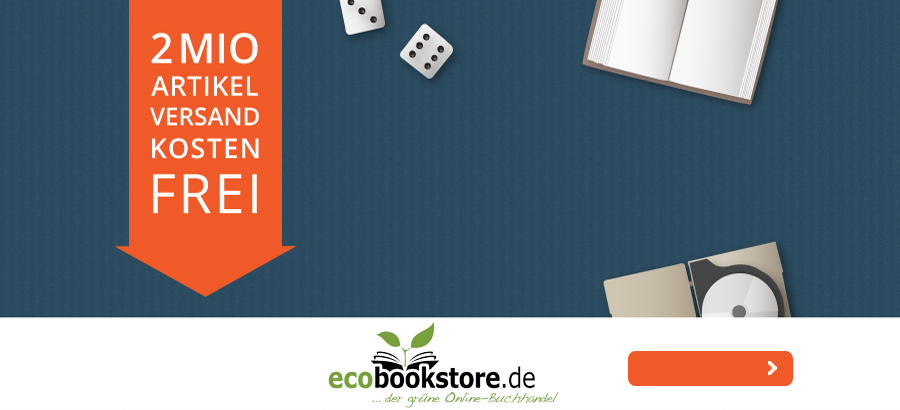
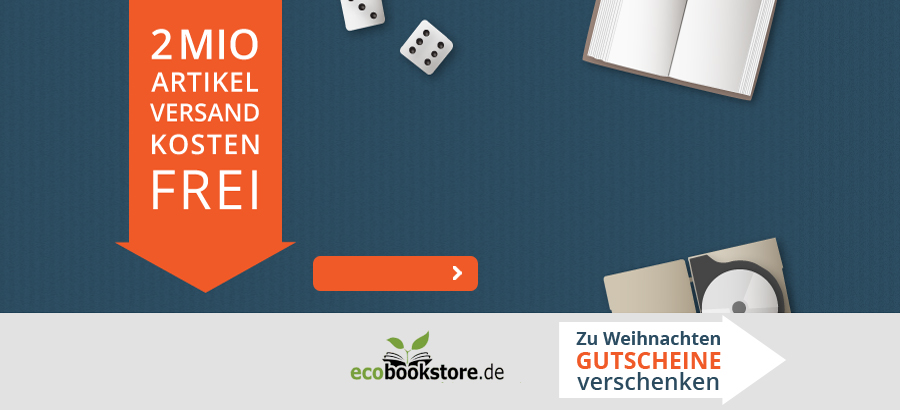
Update Ecobookstore billboard

diff --git a/app/assets/stylesheets/billboards/_billboard-ecobookstore.scss b/app/assets/stylesheets/billboards/_billboard-ecobookstore.scss
@@ -4,20 +4,22 @@
 
 
 // General stuff
-#billboard-ecobookstore > article h2 {
+#billboard-ecobookstore > article h3 {
   font-weight    : 600;
   text-transform : none;
   color          : #2b4b5e;
   text-align     : left;
 }
 
-#billboard-ecobookstore > article h3 {
-  text-indent : -1000em;
+#billboard-ecobookstore > article h3 span {
+  display  : block;
+  position : absolute;
 }
 
-#billboard-ecobookstore > article > a > p {
-  font-weight : 600;
-  color       : $white;
+#billboard-ecobookstore > article h2,
+#billboard-ecobookstore > article h3 span,
+#billboard-ecobookstore-link2 {
+  text-indent : -1000em;
 }
 
 #billboard-ecobookstore > article > p {
@@ -30,6 +32,11 @@
   color : #e57a61;
 }
 
+#billboard-ecobookstore-link1 {
+  font-weight : 600;
+  color       : $white;
+}
+
 
 // Responsive code: small version
 @include till-breakpoint($bp-tablet) {
@@ -38,43 +45,32 @@
   }
 
   #billboard-ecobookstore > article h2 {
-    display: none;
+    @include static-position($top: 0, $left: 54px, $height: 191px,
+      $width: 94px);
   }
 
-  #billboard-ecobookstore > article h3 {
-    @include static-position($top: 335px, $left: 25px, $height: 60px, $width: 175px);
-  }
-
-  #billboard-ecobookstore > article > a > p {
-    @include static-position($top: 276px, $left: 40px, $height: 25px, $width: 129px);
-    font-size: 16px;
-    padding: 4px 0 0 15px;
-  }
-
-  #billboard-ecobookstore > article > p:nth-of-type(1) {
-    display: none;
-  }
-
+  #billboard-ecobookstore > article h3,
+  #billboard-ecobookstore > article > p:nth-of-type(1),
   #billboard-ecobookstore > article > p:nth-of-type(2) {
     display: none;
   }
 
   #billboard-ecobookstore > article > p.alternative-text {
-    @include static-position($top: 185px, $left: 5px, $width: 200px);
+    @include static-position($top: 202px, $left: 5px, $width: 200px);
     font-size: 17px;
     text-align: center;
   }
 
-  #billboard-ecobookstore > article > ul > li#billboard-ecobookstore-link1 div:nth-of-type(1) {
-    @include static-position($top: 0, $left: 55px, $height: 190px, $width: 94px);
+  #billboard-ecobookstore-link1 {
+    @include static-position($top: 276px, $left: 40px, $height: 27px,
+      $width: 131px);
+    font-size: 16px;
+    padding: 4px 0 0 13px;
   }
 
-  #billboard-ecobookstore > article > ul > li#billboard-ecobookstore-link1 div:nth-of-type(2) {
-    display: none;
-  }
-
-  #billboard-ecobookstore > article > ul > li#billboard-ecobookstore-link1 div:nth-of-type(3) {
-    display: none;
+  #billboard-ecobookstore-link2 {
+    @include static-position($top: 334px, $left: 12px, $height: 66px,
+      $width: 195px);
   }
 }
 
@@ -86,43 +82,40 @@
   }
 
   #billboard-ecobookstore > article h2 {
-    @include static-position($top: 340px, $left: 12px, $width: 130px);
-    font-size: 16px;
+    @include static-position($top: 0, $left: 11px, $height: 258px,
+      $width: 121px);
   }
 
   #billboard-ecobookstore > article h3 {
-    @include static-position($top: 340px, $left: 95px, $height: 60px, $width: 170px);
+    text-indent: -1000em;
   }
 
-  #billboard-ecobookstore > article > a > p {
-    @include static-position($top: 354px, $left: 298px, $height: 27px, $width: 127px);
-    font-size: 16px;
-    padding: 4px 0 0 15px;
+  #billboard-ecobookstore > article h3 span {
+    @include static-position($top: 326px, $left: 31px, $height: 65px,
+      $width: 172px);
   }
+
 
   #billboard-ecobookstore > article > p:nth-of-type(1) {
-    @include static-position($top: 115px, $left: 155px, $width: 300px);
+    @include static-position($top: 132px, $left: 155px, $width: 300px);
     font-size: 17px;
   }
 
-  #billboard-ecobookstore > article > p:nth-of-type(2) {
-    display: none;
-  }
-
+  #billboard-ecobookstore > article > p:nth-of-type(2),
   #billboard-ecobookstore > article > p.alternative-text {
     display: none;
   }
 
-  #billboard-ecobookstore > article > ul > li#billboard-ecobookstore-link1 div:nth-of-type(1) {
-    @include static-position($top: 0, $left: 11px, $height: 258px, $width: 120px);
+  #billboard-ecobookstore-link1 {
+    @include static-position($top: 258px, $left: 116px, $height: 27px,
+      $width: 131px);
+    font-size: 16px;
+    padding: 4px 0 0 13px;
   }
 
-  #billboard-ecobookstore > article > ul > li#billboard-ecobookstore-link1 div:nth-of-type(2) {
-    @include static-position($top: 241px, $left: 275px, $height: 81px, $width: 160px);
-  }
-
-  #billboard-ecobookstore > article > ul > li#billboard-ecobookstore-link1 div:nth-of-type(3) {
-    @include static-position($top: 0px, $left: 155px, $height: 105px, $width: 280px);
+  #billboard-ecobookstore-link2 {
+    @include static-position($top: 323px, $left: 221px, $height: 71px,
+      $width: 214px);
   }
 }
 
@@ -134,27 +127,26 @@
   }
 
   #billboard-ecobookstore > article h2 {
-    @include static-position($top: 345px, $left: 29px, $width: 200px);
-    font-size: 20px;
+    @include static-position($top: 0, $left: 28px, $width: 153px,
+      $height: 291px);
   }
 
   #billboard-ecobookstore > article h3 {
-    @include static-position($top: 322px, $left: 225px, $height: 85px, $width: 235px);
+    @include static-position($top: 341px, $left: 29px, $width: 175px);
   }
 
-  #billboard-ecobookstore > article > a > p {
-    @include static-position($top: 351px, $left: 528px, $height: 30px, $width: 146px);
-    font-size: 18px;
-    padding: 4px 0 0 17px;
+  #billboard-ecobookstore > article h3 span {
+    @include static-position($top: -11px, $left: 220px, $height: 50px,
+      $width: 154px);
   }
 
   #billboard-ecobookstore > article > p:nth-of-type(1) {
-    @include static-position($top: 105px, $left: 215px, $width: 470px);
+    @include static-position($top: 125px, $left: 215px, $width: 470px);
     font-size: 18px;
   }
 
   #billboard-ecobookstore > article > p:nth-of-type(2) {
-    @include static-position($top: 170px, $left: 215px, $width: 470px);
+    @include static-position($top: 190px, $left: 215px, $width: 470px);
     font-size: 18px;
   }
 
@@ -162,15 +154,15 @@
     display: none;
   }
 
-  #billboard-ecobookstore > article > ul > li#billboard-ecobookstore-link1 div:nth-of-type(1) {
-    @include static-position($top: 0, $left: 29px, $height: 295px, $width: 150px);
+  #billboard-ecobookstore-link1 {
+    @include static-position($top: 256px, $left: 212px, $height: 31px,
+      $width: 149px);
+    font-size: 18px;
+    padding: 4px 0 0 17px;
   }
 
-  #billboard-ecobookstore > article > ul > li#billboard-ecobookstore-link1 div:nth-of-type(2) {
-    @include static-position($top: 241px, $left: 495px, $height: 75px, $width: 200px);
-  }
-
-  #billboard-ecobookstore > article > ul > li#billboard-ecobookstore-link1 div:nth-of-type(3) {
-    @include static-position($top: 0px, $left: 235px, $height: 105px, $width: 445px);
+  #billboard-ecobookstore-link2 {
+    @include static-position($top: 321px, $left: 458px, $height: 77px,
+      $width: 227px);
   }
 }
